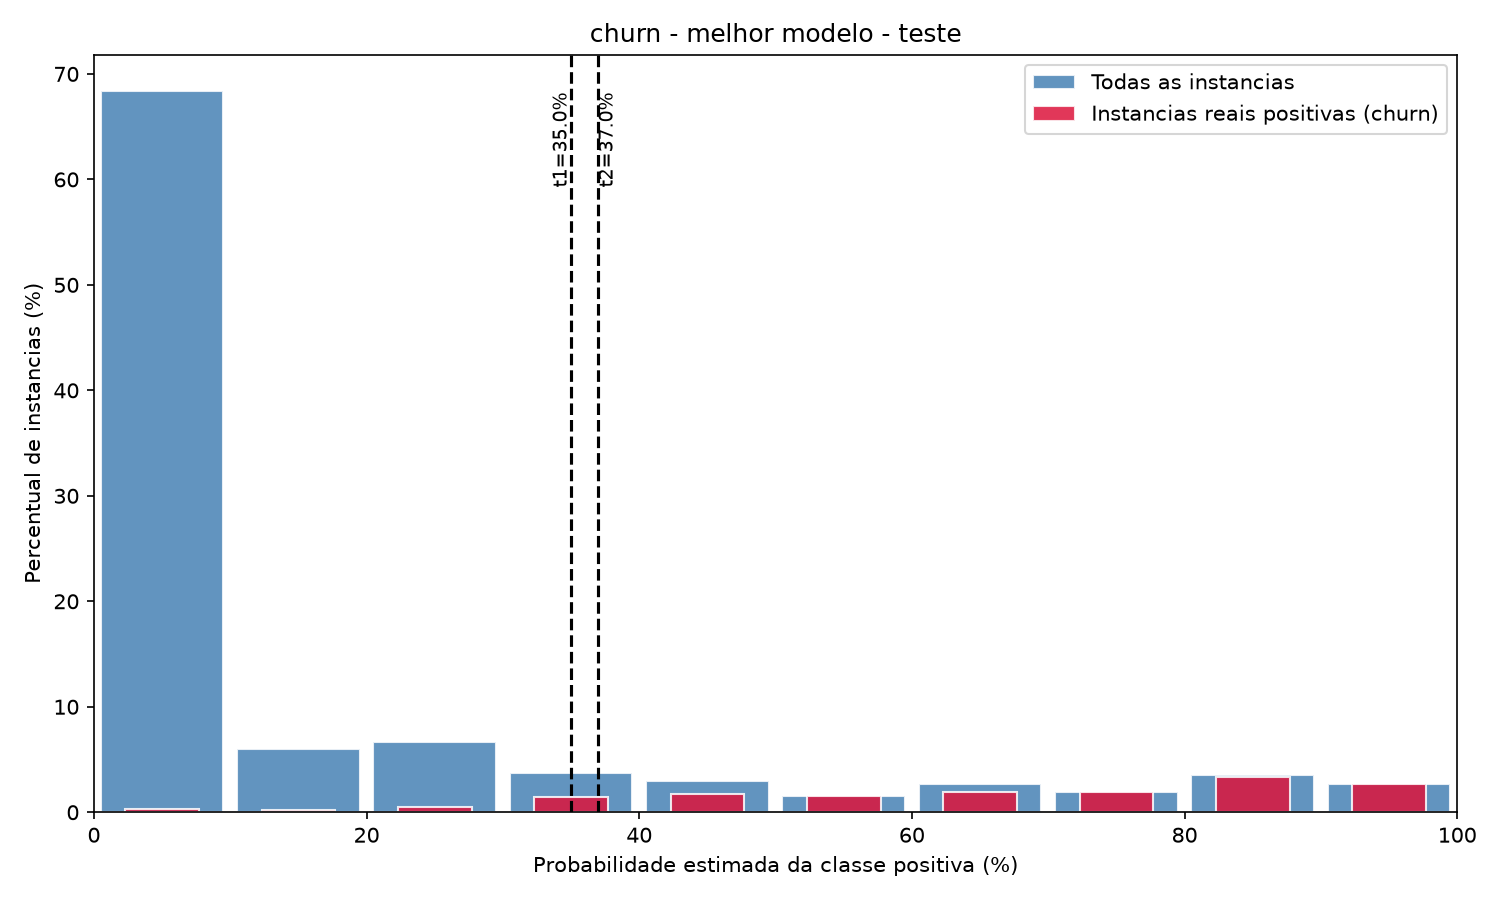
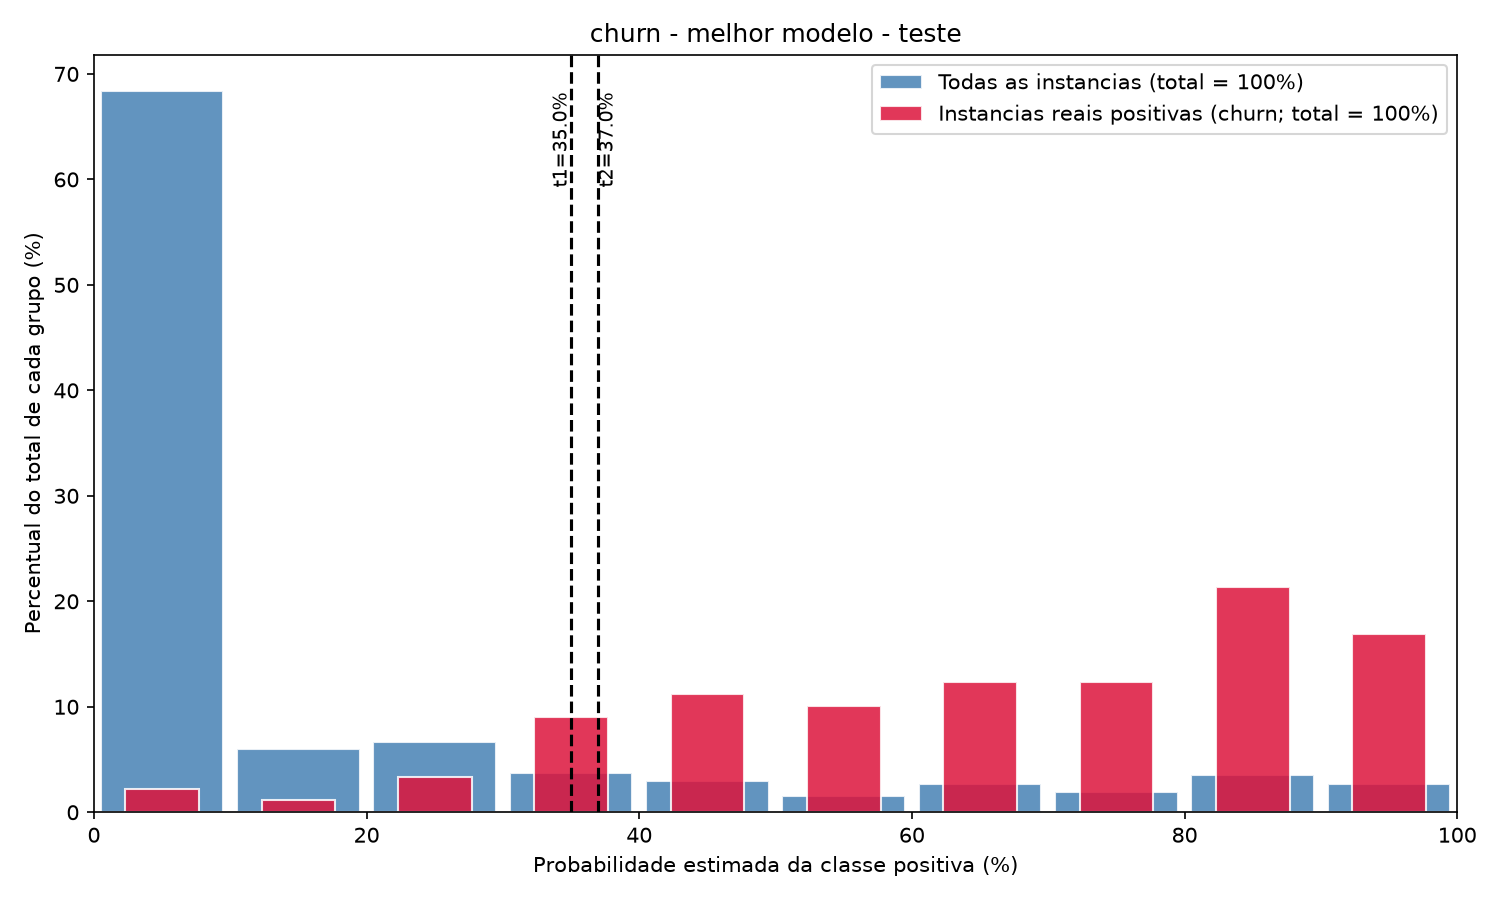
Corrige normalizacao dos histogramas por grupo

diff --git a/analise_cortes.py b/analise_cortes.py
@@ -104,24 +104,24 @@ def analisar_cortes(
     n_pos = int(mask_pos.sum())
     n_neg = n_total - n_pos
 
-    # ---- Histograma (mesmo denominador = total de instancias, para as duas cores) ----
+    # ---- Histograma (cada cor normalizada pelo total do grupo representado) ----
     bordas = np.append(np.arange(0, 100, largura_intervalo), 100)
 
     contagem_todas, _ = np.histogram(prob_pct, bins=bordas)
     contagem_positivas, _ = np.histogram(prob_pct[mask_pos], bins=bordas)
 
     pct_todas = contagem_todas / n_total * 100
-    pct_positivas_mesmo_denominador = contagem_positivas / n_total * 100
+    pct_positivas = contagem_positivas / n_pos * 100 if n_pos > 0 else np.zeros_like(contagem_positivas, dtype=float)
 
     centros = (bordas[:-1] + bordas[1:]) / 2
     largura_barra = np.diff(bordas) * 0.9
 
     fig, ax = plt.subplots(figsize=(10, 6))
     ax.bar(centros, pct_todas, width=largura_barra, color="steelblue",
-           alpha=0.85, label="Todas as instancias", edgecolor="white")
-    ax.bar(centros, pct_positivas_mesmo_denominador, width=largura_barra * 0.6,
+           alpha=0.85, label="Todas as instancias (total = 100%)", edgecolor="white")
+    ax.bar(centros, pct_positivas, width=largura_barra * 0.6,
            color="crimson", alpha=0.85,
-           label=f"Instancias reais positivas ({nome_classe_positiva})",
+           label=f"Instancias reais positivas ({nome_classe_positiva}; total = 100%)" if n_pos > 0 else "Sem instancias reais positivas",
            edgecolor="white")
 
     ax.axvline(t1 * 100, color="black", linestyle="--", linewidth=1.5)
@@ -132,7 +132,7 @@ def analisar_cortes(
             rotation=90, va="top", ha="left", fontsize=9)
 
     ax.set_xlabel("Probabilidade estimada da classe positiva (%)")
-    ax.set_ylabel("Percentual de instancias (%)")
+    ax.set_ylabel("Percentual do total de cada grupo (%)")
     ax.set_xlim(0, 100)
     ax.set_title(titulo)
     ax.legend()

diff --git a/relatorio.md b/relatorio.md
@@ -74,9 +74,11 @@ Os limites de validação não são garantias para dados novos. Não se alterara
 os cortes após observar o teste.
 
 Os histogramas usam intervalos de dez pontos percentuais. As barras azuis
-representam todos os casos e as vermelhas os positivos reais, ambas divididas
-pelo total de casos do teste. A soma azul é 100%; a soma vermelha é a prevalência
-positiva, e não 100%.
+representam todos os casos, divididos pelo total de casos do teste. As barras
+vermelhas representam os positivos reais, divididos pelo total de positivos
+reais do teste. Cada cor soma 100% separadamente ao longo das três faixas:
+negativo automático + revisão manual + positivo automático = 100% para azul
+e 100% para vermelho.
 
 
 ## Churn em telecomunicações - UCI
